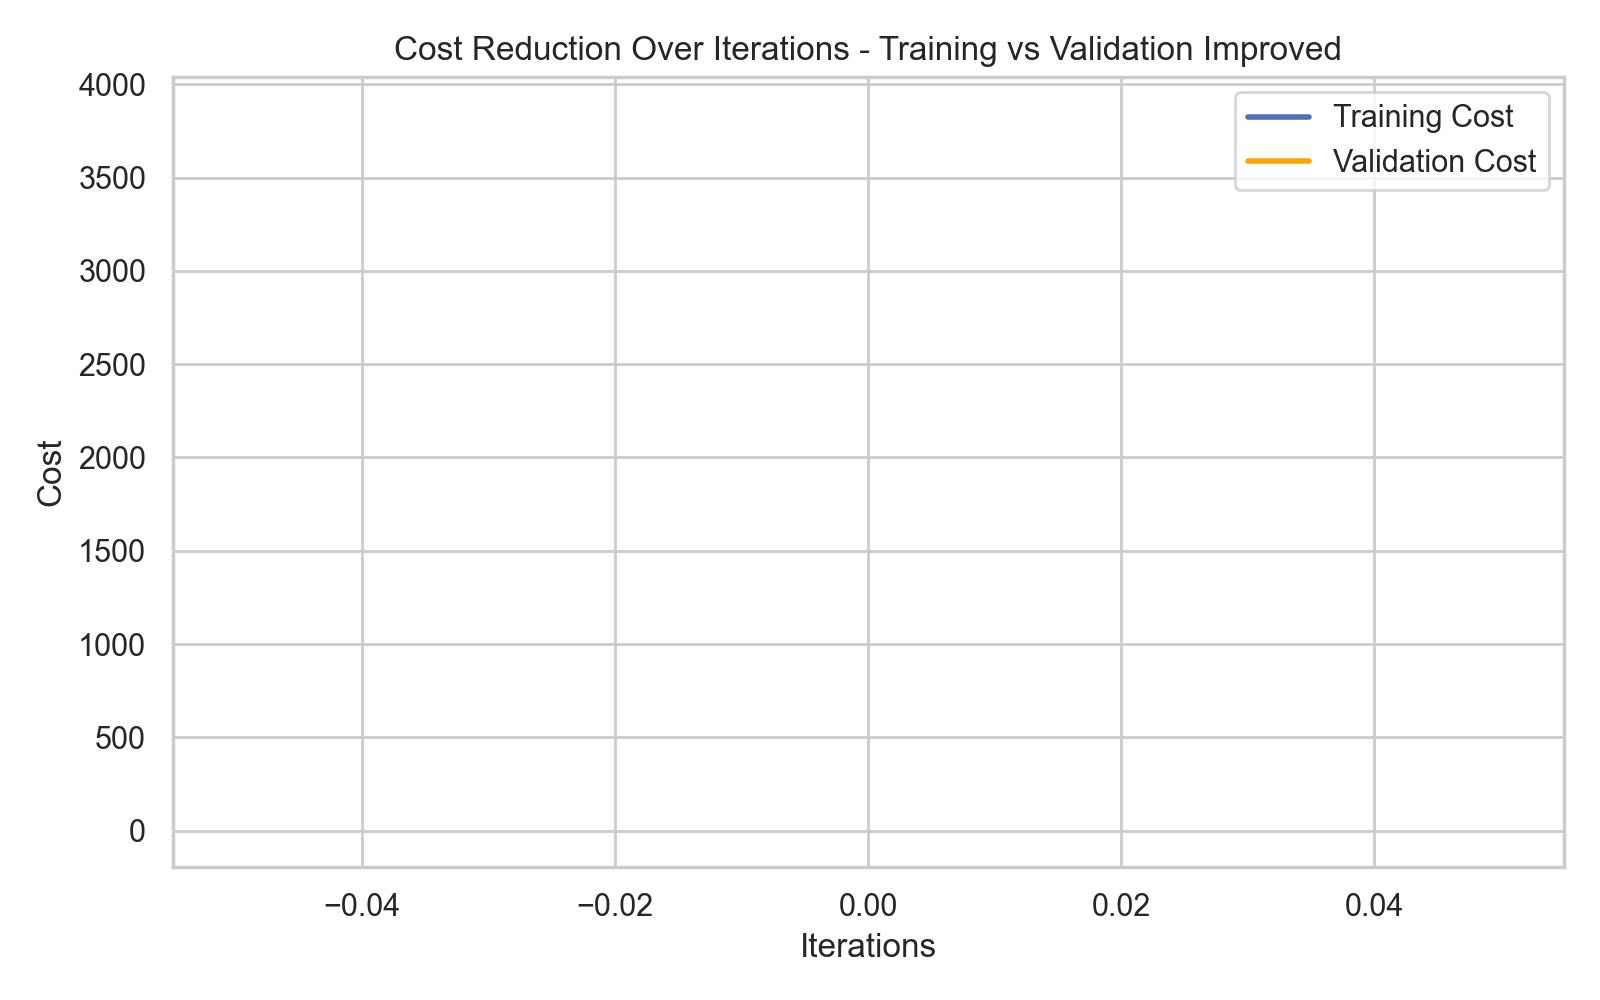
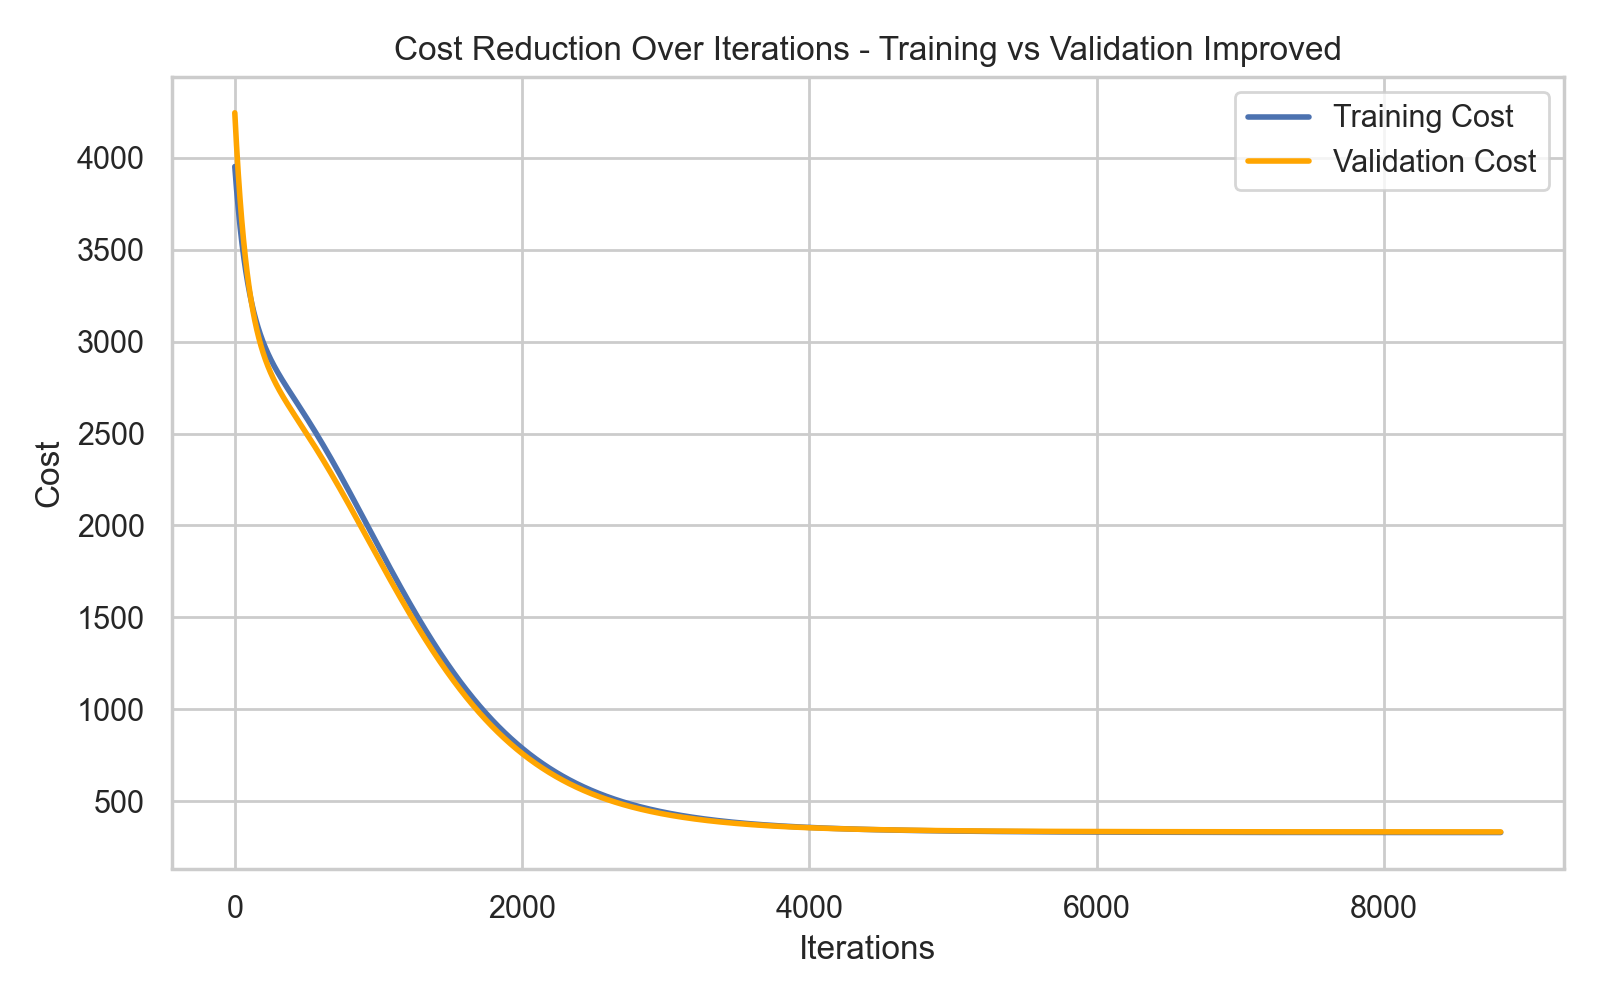
feat: subimos reporte

diff --git a/main.py b/main.py
@@ -9,6 +9,7 @@ import visualization.graphs as graphs
 import objetos.objetos as classes
 from sklearn.model_selection import train_test_split
 from sklearn.ensemble import RandomForestRegressor
+from sklearn.tree import DecisionTreeRegressor
 
 
 def LoadData(file_path : str):
@@ -54,7 +55,7 @@ def PrepareEnviorments(X: pd.DataFrame, y: pd.DataFrame, z: bool=True):
     
     return data_splits
 
-def PredictSet(X_val: np.ndarray, y_val: np.ndarray, thetas: np.ndarray, bias: float, set_name: str, data_name: str="calories"):
+def PredictSet(X_val: np.ndarray, y_val: np.ndarray, thetas: np.ndarray, bias: float, set_name: str, data_name: str="calories", log: bool = False):
     """
     Make predictions on the set and give
     the information about the predictions in a txt format.
@@ -67,6 +68,9 @@ def PredictSet(X_val: np.ndarray, y_val: np.ndarray, thetas: np.ndarray, bias: f
     set_name (str): Name of the dataset (e.g., "Validation", "Test").
     """
     predictions = X_val.dot(thetas) + bias
+
+    if log:
+        predictions = np.exp(predictions)
 
     rmse = (sum((predictions - y_val) ** 2) / y_val.shape[0]) ** 0.5
     mae = sum(abs(predictions - y_val)) / y_val.shape[0]
@@ -133,9 +137,6 @@ if __name__ == "__main__":
     
     df = LoadData("data/calories.csv")
 
-    
-    
-
     column_names = ["Age", "Body_Temp", "Height"]
     X = df[column_names]
     y = df["Calories"]
@@ -146,7 +147,7 @@ if __name__ == "__main__":
     
     thetas = np.ones((len(column_names), 1))
     bias = 1
-    learning_rate = 0.1
+    learning_rate = 0.001
     iterations = 10000
     min_cost_decrease = 0.0001
     
@@ -162,40 +163,40 @@ if __name__ == "__main__":
     PredictSet(data_splits.X_test, data_splits.y_test, params.thetas, params.bias, "Test", "calories")
     
     VisualizeTraining(cost_history.cost_history_train, cost_history.cost_history_val, "Training vs Validation", "Training", "Validation")
-    VisualizeTraining(cost_history.cost_history_train, cost_history.cost_history_test, "Training vs Test")
-    
-    #=====RANDOM FOREST REGRESSOR=====#
+    VisualizeTraining(cost_history.cost_history_val, cost_history.cost_history_test, "Validation vs Test")
 
-    rf = RandomForestRegressor(
-        n_estimators=50,      # menos árboles
-        max_depth=5,          # profundidad máxima limitada
-        min_samples_split=20, # obliga a ramas más grandes
-        min_samples_leaf=10,  # hojas con mínimo 10 datos
-        random_state=42
-    )
     
-    X = df.drop(columns=["Calories", "Gender", "Duration"])
+
+    #=====DECISION TREE REGRESSOR=====#
+
+    X = df.drop(columns=["Calories", "Duration"])
     y = df["Calories"]
-    
+
     data_splits_rf = PrepareEnviorments(X, y, False)
-    
-    rf.fit(data_splits_rf.X_train, data_splits_rf.y_train.ravel())
-    y_pred_val = rf.predict(data_splits_rf.X_val)
-    y_pred_test = rf.predict(data_splits_rf.X_test)
-    
-    rmse_val = np.sqrt(np.mean((y_pred_val - data_splits_rf.y_val.ravel()) ** 2))
-    mae_val = np.mean(np.abs(y_pred_val - data_splits_rf.y_val.ravel()))
-    r2_val = rf.score(data_splits_rf.X_val, data_splits_rf.y_val.ravel())
-    
-    rmse_test = np.sqrt(np.mean((y_pred_test - data_splits_rf.y_test.ravel()) ** 2))
-    mae_test = np.mean(np.abs(y_pred_test - data_splits_rf.y_test.ravel()))
-    r2_test = rf.score(data_splits_rf.X_test, data_splits_rf.y_test.ravel())
-    
-    feature_importances = rf.feature_importances_
-    
+
+    dt = DecisionTreeRegressor(max_depth=None, random_state=42)
+    dt.fit(data_splits.X_train, data_splits.y_train.ravel())
+    y_pred_train = dt.predict(data_splits.X_train)
+    y_pred_val = dt.predict(data_splits.X_val)
+    y_pred_test = dt.predict(data_splits.X_test)
+
+    rmse_train = np.sqrt(np.mean((y_pred_train - data_splits.y_train.ravel()) ** 2))
+    mae_train = np.mean(np.abs(y_pred_train - data_splits.y_train.ravel()))
+    r2_train = dt.score(data_splits.X_train, data_splits.y_train.ravel())
+    rmse_val = np.sqrt(np.mean((y_pred_val - data_splits.y_val.ravel()) ** 2))
+    mae_val = np.mean(np.abs(y_pred_val - data_splits.y_val.ravel()))
+    r2_val = dt.score(data_splits.X_val, data_splits.y_val.ravel())
+    rmse_test = np.sqrt(np.mean((y_pred_test - data_splits.y_test.ravel()) ** 2))
+    mae_test = np.mean(np.abs(y_pred_test - data_splits.y_test.ravel()))
+    r2_test = dt.score(data_splits.X_test, data_splits.y_test.ravel())
+
     output_file = f"report/calories_metrics.txt"
     with open(output_file, "a") as f:
-        f.write(f"=== Random Forest Regressor ===\n")
+        f.write(f"=== Decision Tree Regressor ===\n")
+        f.write(f"--- Training Set ---\n")
+        f.write(f"RMSE: {rmse_train:.4f}\n")
+        f.write(f"MAE:  {mae_train:.4f}\n")
+        f.write(f"R²:   {r2_train:.4f}\n\n")
         f.write(f"--- Validation Set ---\n")
         f.write(f"RMSE: {rmse_val:.4f}\n")
         f.write(f"MAE:  {mae_val:.4f}\n")
@@ -204,14 +205,8 @@ if __name__ == "__main__":
         f.write(f"RMSE: {rmse_test:.4f}\n")
         f.write(f"MAE:  {mae_test:.4f}\n")
         f.write(f"R²:   {r2_test:.4f}\n\n")
-        f.write("Feature Importances:\n")
-        for name, importance in zip(X.columns, feature_importances):
-            f.write(f"{name}: {importance:.4f}\n")
-        f.write("\n")
-    
 
     #=====IMPROVE CALORIES DATASET=====#
-
     
     df = cln.EraseOutliersByZScore(df, "Height", 3.0)
     df = cln.EraseOutliersByIQR(df, "Weight", 1.5)
@@ -230,7 +225,7 @@ if __name__ == "__main__":
     
     thetas = np.ones((len(column_names), 1))
     bias = 1
-    learning_rate = 0.1
+    learning_rate = 0.001
     iterations = 10000
     min_cost_decrease = 0.0001
     
@@ -238,52 +233,65 @@ if __name__ == "__main__":
     cost_history = classes.CostHistory([], [], [])
     hyper_parms = classes.HyperParams(learning_rate, iterations, min_cost_decrease)
 
-    params, cost_history = gd.GradientDescent(data_splits, params, hyper_parms)
-    
-    
-    
-    
+    params, cost_history = gd.GradientDescent(data_splits, params, hyper_parms, True)
     
 
+
     ShowParameters(params.thetas, params.bias, "calories", column_names, "a")
-    PredictSet(data_splits.X_train, data_splits.y_train, params.thetas, params.bias, "Training", "calories")
-    PredictSet(data_splits.X_val, data_splits.y_val, params.thetas, params.bias, "Validation", "calories")
-    PredictSet(data_splits.X_test, data_splits.y_test, params.thetas, params.bias, "Test", "calories")
-    
+    PredictSet(data_splits.X_train, np.exp(data_splits.y_train), params.thetas, params.bias, "Training", "calories", True)
+    PredictSet(data_splits.X_val, data_splits.y_val, params.thetas, params.bias, "Validation", "calories", True)
+    PredictSet(data_splits.X_test, data_splits.y_test, params.thetas, params.bias, "Test", "calories", True)
+
     VisualizeTraining(cost_history.cost_history_train, cost_history.cost_history_val, "Training vs Validation Improved", "Training", "Validation")
-    VisualizeTraining(cost_history.cost_history_train, cost_history.cost_history_test, "Training vs Test Improved")
-    
-    
-    #=====RANDOM FOREST REGRESSOR IMPROVED=====#
-    
-    top_features = ["Heart_Rate", "Age", "Gender","Body_Temp"]
-    X = df[top_features]
+    VisualizeTraining(cost_history.cost_history_val, cost_history.cost_history_test, "Validation vs Test Improved")
+
+    y_pred_train = data_splits.X_train.dot(params.thetas) + params.bias
+    y_pred_val = data_splits.X_val.dot(params.thetas) + params.bias
+    y_pred_test = data_splits.X_test.dot(params.thetas) + params.bias
+
+    graphs.HistogramOfPredictions(np.exp(data_splits.y_train), np.exp(y_pred_train), name="Training Set Predictions", path="report/training_predictions.png")
+    graphs.HistogramOfPredictions(data_splits.y_val, np.exp(y_pred_val), name="Validation Set Predictions", path="report/validation_predictions.png")
+    graphs.HistogramOfPredictions(data_splits.y_test, np.exp(y_pred_test), name="Test Set Predictions", path="report/test_predictions.png")
+
+    #=====RANDOM FOREST REGRESSOR=====#
+
+    X = df.drop(columns=["Calories", "Calories_ln", "Duration"])
     y = df["Calories"]
-    
-    rf = RandomForestRegressor(
-        n_estimators=800,    # muchos árboles para estabilidad
-        max_depth=None,      # sin límite, que cada árbol crezca
-        min_samples_split=2, # splits muy pequeños permitidos
-        min_samples_leaf=1,  # hojas con 1 dato (máxima fineza)
-        random_state=42,
-        n_jobs=-1
-    )
-    
+
     data_splits_rf = PrepareEnviorments(X, y, False)
+
+    rf = RandomForestRegressor(
+        n_estimators=5,    
+        max_depth=None,      
+        random_state=42       
+    )
+
     rf.fit(data_splits_rf.X_train, data_splits_rf.y_train.ravel())
+
+    y_pred_train = rf.predict(data_splits_rf.X_train)
     y_pred_val = rf.predict(data_splits_rf.X_val)
     y_pred_test = rf.predict(data_splits_rf.X_test)
+
+    rmse_train = np.sqrt(np.mean((y_pred_train - data_splits_rf.y_train.ravel()) ** 2))
+    mae_train = np.mean(np.abs(y_pred_train - data_splits_rf.y_train.ravel()))
+    r2_train = rf.score(data_splits_rf.X_train, data_splits_rf.y_train.ravel())
     rmse_val = np.sqrt(np.mean((y_pred_val - data_splits_rf.y_val.ravel()) ** 2))
     mae_val = np.mean(np.abs(y_pred_val - data_splits_rf.y_val.ravel()))
     r2_val = rf.score(data_splits_rf.X_val, data_splits_rf.y_val.ravel())
     rmse_test = np.sqrt(np.mean((y_pred_test - data_splits_rf.y_test.ravel()) ** 2))
     mae_test = np.mean(np.abs(y_pred_test - data_splits_rf.y_test.ravel()))
     r2_test = rf.score(data_splits_rf.X_test, data_splits_rf.y_test.ravel())
+
+    #GET top features
     feature_importances = rf.feature_importances_
-    
+
     output_file = f"report/calories_metrics.txt"
     with open(output_file, "a") as f:
-        f.write(f"=== Random Forest Regressor Improved ===\n")
+        f.write(f"=== Random Forest Regressor ===\n")
+        f.write(f"--- Training Set ---\n")
+        f.write(f"RMSE: {rmse_train:.4f}\n")
+        f.write(f"MAE:  {mae_train:.4f}\n")
+        f.write(f"R²:   {r2_train:.4f}\n\n")
         f.write(f"--- Validation Set ---\n")
         f.write(f"RMSE: {rmse_val:.4f}\n")
         f.write(f"MAE:  {mae_val:.4f}\n")
@@ -294,6 +302,57 @@ if __name__ == "__main__":
         f.write(f"R²:   {r2_test:.4f}\n\n")
         f.write("Feature Importances:\n")
         for name, importance in zip(X.columns, feature_importances):
-            f.write(f"{name}: {importance:.4f}\n")
+            f.write(f"{name}: {importance:.4f}\n")  
         f.write("\n")
-        f.close()
+
+    #=====RANDOM FOREST REGRESSOR IMPROVED=====#
+
+    top_features = ["Heart_Rate", "Age","Body_Temp","Height","Weight"]
+    X = df[top_features]
+    y = df["Calories"]
+    
+    rf = RandomForestRegressor(
+        n_estimators=800,    # muchos árboles para estabilidad
+        max_depth=5,      # sin límite, que cada árbol crezca
+        min_samples_split=10, # splits muy pequeños permitidos
+        min_samples_leaf=5,  # hojas con 1 dato (máxima fineza)
+        random_state=42
+    )
+
+    data_splits_rf = PrepareEnviorments(X, y, False)
+    rf.fit(data_splits_rf.X_train, data_splits_rf.y_train.ravel())
+    y_pred_train = rf.predict(data_splits_rf.X_train)
+    y_pred_val = rf.predict(data_splits_rf.X_val)
+    y_pred_test = rf.predict(data_splits_rf.X_test)
+
+    rmse_train = np.sqrt(np.mean((y_pred_train - data_splits_rf.y_train.ravel()) ** 2))
+    mae_train = np.mean(np.abs(y_pred_train - data_splits_rf.y_train.ravel()))
+    r2_train = rf.score(data_splits_rf.X_train, data_splits_rf.y_train.ravel())
+    rmse_val = np.sqrt(np.mean((y_pred_val - data_splits_rf.y_val.ravel()) ** 2))
+    mae_val = np.mean(np.abs(y_pred_val - data_splits_rf.y_val.ravel()))
+    r2_val = rf.score(data_splits_rf.X_val, data_splits_rf.y_val.ravel())
+    rmse_test = np.sqrt(np.mean((y_pred_test - data_splits_rf.y_test.ravel()) ** 2))
+    mae_test = np.mean(np.abs(y_pred_test - data_splits_rf.y_test.ravel()))
+    r2_test = rf.score(data_splits_rf.X_test, data_splits_rf.y_test.ravel())
+
+    
+    graphs.HistogramOfPredictions(data_splits_rf.y_train.ravel(), y_pred_train, name="Training Set Predictions Random Forest", path="report/training_predictions_rf.png")
+    graphs.HistogramOfPredictions(data_splits_rf.y_val.ravel(), y_pred_val, name="Validation Set Predictions Random Forest", path="report/validation_predictions_rf.png")
+    graphs.HistogramOfPredictions(data_splits_rf.y_test.ravel(), y_pred_test, name="Test Set Predictions Random Forest", path="report/test_predictions_rf.png")
+
+    output_file = f"report/calories_metrics.txt"
+    with open(output_file, "a") as f:
+        f.write(f"=== Random Forest Regressor Improved ===\n")
+        f.write(f"--- Training Set ---\n")
+        f.write(f"RMSE: {rmse_train:.4f}\n")
+        f.write(f"MAE:  {mae_train:.4f}\n")
+        f.write(f"R²:   {r2_train:.4f}\n\n")
+        f.write(f"--- Validation Set ---\n")
+        f.write(f"RMSE: {rmse_val:.4f}\n")
+        f.write(f"MAE:  {mae_val:.4f}\n")
+        f.write(f"R²:   {r2_val:.4f}\n\n")
+        f.write(f"--- Test Set ---\n")
+        f.write(f"RMSE: {rmse_test:.4f}\n")
+        f.write(f"MAE:  {mae_test:.4f}\n")
+        f.write(f"R²:   {r2_test:.4f}\n\n")
+ 

diff --git a/algorithms/gradient_descent.py b/algorithms/gradient_descent.py
@@ -11,18 +11,17 @@ def Hypothesis(X: np.ndarray, thetas: np.ndarray, bias: float):
     
     Returns:
     np.ndarray: Predicted values.
-    
+    """
     result = np.zeros((X.shape[0], 1))
     
     for i in range(X.shape[0]):
         for j in range(X.shape[1]):
             result[i,0] += X[i,j] * thetas[j,0]
-    """
-    result = X.dot(thetas)
+ 
     
     return result + bias
 
-def MinSquareError(X: np.ndarray, y: np.ndarray, thetas: np.ndarray, bias: float):
+def MinSquareError(X: np.ndarray, y: np.ndarray, thetas: np.ndarray, bias: float, log: bool = False):
     """
     Calculate the Mean Squared Error (MSE) cost function.
     
@@ -36,6 +35,8 @@ def MinSquareError(X: np.ndarray, y: np.ndarray, thetas: np.ndarray, bias: float
     """
     m = y.shape[0]
     predictions = Hypothesis(X, thetas, bias)
+    if log:
+        predictions = np.exp(predictions)
     cost = (1/(2*m)) * np.sum((predictions - y) ** 2)
     return cost
 
@@ -66,7 +67,7 @@ def UpdateParameters(X: np.ndarray, y: np.ndarray, thetas: np.ndarray, bias: flo
     return thetas, bias
 
 
-def GradientDescent(data_split: classes, params: classes , hyper_parms: classes):
+def GradientDescent(data_split: classes, params: classes , hyper_parms: classes, log: bool = False):
     """
     Perform gradient descent to optimize model parameters.
     
@@ -90,10 +91,14 @@ def GradientDescent(data_split: classes, params: classes , hyper_parms: classes)
 
     for _ in range(hyper_parms.iterations):
         thetas, bias = UpdateParameters(data_split.X_train, data_split.y_train, thetas, bias, hyper_parms.learning_rate)
-        cost = MinSquareError(data_split.X_train, data_split.y_train, thetas, bias)
-        cost_hitsory_train.append(cost)
-        cost_hitsory_test.append(MinSquareError(data_split.X_test, data_split.y_test, thetas, bias))
-        cost_hitsory_valid.append(MinSquareError(data_split.X_val, data_split.y_val, thetas, bias))
+        if log:
+            cost = MinSquareError(data_split.X_train, np.exp(data_split.y_train), thetas, bias, log)
+            cost_hitsory_train.append(cost)
+        else:
+            cost = MinSquareError(data_split.X_train, data_split.y_train, thetas, bias)
+            cost_hitsory_train.append(cost)
+        cost_hitsory_test.append(MinSquareError(data_split.X_test, data_split.y_test, thetas, bias, log))
+        cost_hitsory_valid.append(MinSquareError(data_split.X_val, data_split.y_val, thetas, bias, log))
         print("Iteration:", _)
         if abs(last_cost - cost) < hyper_parms.min_cost_decrease:
             break

diff --git a/visualization/graphs.py b/visualization/graphs.py
@@ -1,18 +1,25 @@
 import matplotlib.pyplot as plt
 import seaborn as sns
 import pandas as pd
+import numpy as np
 
-def Histogram(df: pd.DataFrame, column: str):
+#Function to plot histogram of predictions errors meaning to see if prediction high or low
+
+def HistogramOfPredictions(y_true: pd.Series, y_pred: np.ndarray, error: pd.Series = None, name: str = "Prediction Errors", path: str = None):
     """
-    Plot a histogram for a specific column in the DataFrame.
+    Plot a histogram of prediction errors.
 
     Parameters:
-    df (pd.DataFrame): Input DataFrame.
-    column (str): Column name of the data to plot.
+    y_true (pd.Series): Actual target values.
+    y_pred (pd.Series): Predicted target values.
     """
+    if error is None:
+        error = y_pred - y_true
     plt.figure(figsize=(10, 6))
-    sns.histplot(df[column], kde=True, bins=30, color="royalblue")
-    plt.title(f'Histogram of {column}')
-    plt.xlabel(column)
+    sns.histplot(error, bins=30, kde=True)
+    plt.title(name)
+    plt.xlabel('Prediction Error')
     plt.ylabel('Frequency')
-    plt.show()
+    if path is not None:
+        plt.savefig(path)
+    plt.close()
